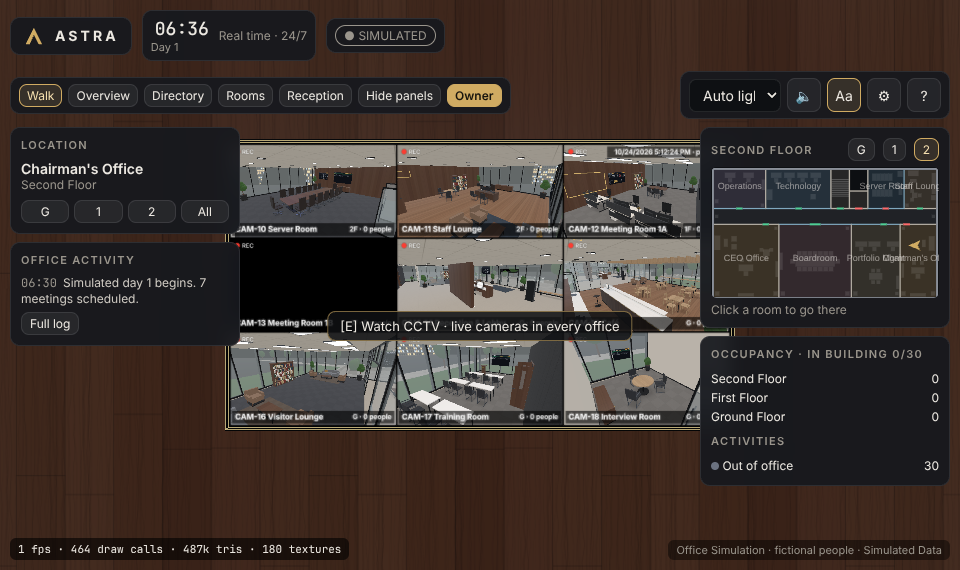
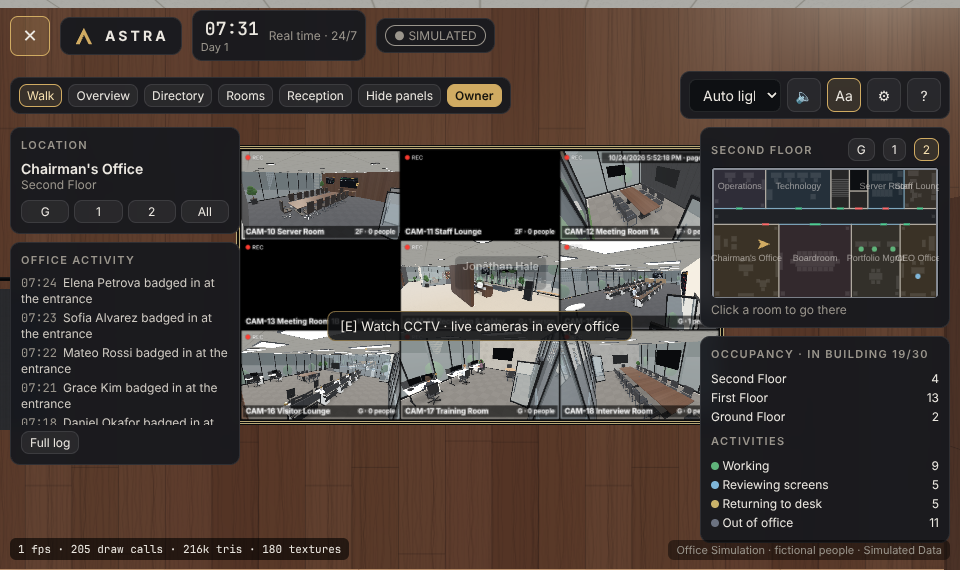
Swap offices: chairman takes the corner office, CEO moves east
The chairman's office (ASTRA CHAIRMAN plate, PC, CCTV wall) is now the large
corner office; the CEO's desk, guest chairs, sofa and company screen move to
the office east of Portfolio Management. The owner can call meetings in their
own office and Talk sends people there by default.

Employee health check (36 h of the real office) found and fixed:
- research-direction meetings fired per trader (19 a day), pulling desk heads
  into meetings 32-37% of the time; now one per desk per day, grouping that
  desk's traders, with the PM redirecting anyone else directly
- Operations picked reconciliation or P&L report by clock parity, so the P&L
  report could never run; now they alternate
- desk names in meeting titles use the live book names
CCTV full view labels only the people in the room on camera.

Claude-Session: https://claude.ai/code/session_01BpAXXQrUMy59n4uomeZRsj

diff --git a/astra-hq/src/sim/work.ts b/astra-hq/src/sim/work.ts
@@ -88,6 +88,8 @@ export class WorkEngine {
   regimes = new Map<string, { trend: 'up' | 'down' | 'range'; rsi: number; vol: number; chg: number; t: number }>();
   focus = new Map<string, { family?: Family; interval?: Interval; until: number }>();
   failStreak = new Map<string, number>();
+  /** When each PM last held a research-direction meeting for their desk (at most one a day per desk). */
+  private deskMeetingAt = new Map<string, number>();
   kill: { on: boolean; at: number; reason: string } = { on: false, at: 0, reason: '' };
   data: DataPort | null = null;
   private seq = 1;
@@ -318,8 +320,12 @@ export class WorkEngine {
         const iv = INTERVALS[(Math.floor(t / 20) + e.index) % INTERVALS.length];
         return mk('data-refresh', { interval: iv }, `Refresh ${iv} candles for all ${INSTRUMENTS.length} markets`);
       }
-      case 'ops':
-        return (t + e.index) % 2 ? mk('reconciliation', {}, 'Reconcile strategy books with the firm ledger') : mk('pnl-report', {}, 'P&L report by book and strategy');
+      case 'ops': {
+        // alternate: after a reconciliation comes a P&L report and the other way round (tasks are newest first)
+        const last = this.tasks.find((x) => x.owner === id && (x.kind === 'reconciliation' || x.kind === 'pnl-report'));
+        const recon = last ? last.kind === 'pnl-report' : e.index % 2 === 0;
+        return recon ? mk('reconciliation', {}, 'Reconcile strategy books with the firm ledger') : mk('pnl-report', {}, 'P&L report by book and strategy');
+      }
       case 'ceo':
         return mk('review-reports', {}, 'Read reports from the heads of department and decide');
       case 'receptionist':
@@ -654,11 +660,56 @@ export class WorkEngine {
   }
 
   // ------------------------------------------------------------------ problem-solving meetings
+  /**
+   * A trader with 8 failed tests in a row: their desk meets about research direction, at most once a day per desk.
+   * Traders who hit the streak while a desk meeting is booked join it; after the day's meeting, their PM redirects
+   * them directly using the same firm-wide evidence (no extra meeting).
+   */
   private researchMeeting(trader: string) {
-    const pm = this.managerOf(trader);
-    const people = [trader, pm, this.head('researcher')?.cfg.id, this.sim.employees.find((e) => /head trader/i.test(e.cfg.title))?.cfg.id].filter((x, i, a): x is string => !!x && a.indexOf(x) === i);
+    const pm = this.managerOf(trader) ?? '';
     this.failStreak.set(trader, 0);
-    this.meeting('research-direction', `Research direction: ${this.name(trader)} has 8 failed tests in a row`, people, 'f-m1a', { trader });
+    const now = this.now();
+    for (const [evId, d] of this.decisions) {
+      if (d.kind !== 'research-direction' || d.data.pm !== pm) continue;
+      const ev = this.sim.events.find((x) => x.id === evId);
+      if (ev && ev.status === 'scheduled') {
+        const traders = String(d.data.traders).split(',');
+        if (!traders.includes(trader)) { traders.push(trader); d.data.traders = traders.join(','); }
+        if (!ev.attendeeIds.includes(trader)) ev.attendeeIds.push(trader);
+        ev.title = `Research direction: ${traders.length} ${this.deskName(pm)} traders with 8+ failed tests in a row`;
+        ev.agenda = [ev.title];
+        return;
+      }
+    }
+    if (now - (this.deskMeetingAt.get(pm) ?? -1e9) < 1440) {
+      const f = this.bestFocus();
+      this.focus.set(trader, { ...f, until: now + 1440 });
+      const text = `${this.name(pm)} redirected ${this.name(trader)} to ${f.family ? FAMILY_LABEL[f.family] : 'other families'}${f.interval ? ` at ${f.interval}` : ''} after 8 failed tests (desk already met today)`;
+      this.sim.addLog(text, 'office');
+      const e = this.sim.byId.get(trader);
+      if (e) this.sim.pushHistory(e, text);
+      return;
+    }
+    this.deskMeetingAt.set(pm, now);
+    const people = [trader, pm, this.head('researcher')?.cfg.id, this.sim.employees.find((e) => /head trader/i.test(e.cfg.title))?.cfg.id].filter((x, i, a): x is string => !!x && a.indexOf(x) === i);
+    this.meeting('research-direction', `Research direction: ${this.name(trader)} has 8 failed tests in a row`, people, 'f-m1a', { trader, traders: trader, pm });
+  }
+
+  private deskName(pm: string): string {
+    const book = [...this.sim.finance.pmByBook.entries()].find(([, id]) => id === pm)?.[0];
+    return (book && BOOK_INDEX.get(book as never)?.short) ?? 'desk';
+  }
+
+  /** The family and interval with the best out-of-sample record across the whole firm so far. */
+  private bestFocus(): { family?: Family; interval?: Interval } {
+    // score = pass rate first, then average out-of-sample Sharpe (a family that never passes is not "best")
+    const stats = new Map<string, { n: number; s: number; p: number }>();
+    for (const r of this.tested.values()) {
+      for (const k of [`f:${r.family}`, `i:${r.interval}`]) { const x = stats.get(k) ?? { n: 0, s: 0, p: 0 }; x.n++; x.s += r.sharpe; x.p += r.pass ? 1 : 0; stats.set(k, x); }
+    }
+    const score = (x: { n: number; s: number; p: number }) => x.p / x.n * 10 + x.s / x.n;
+    const best = (prefix: string) => [...stats.entries()].filter(([k]) => k.startsWith(prefix)).sort((a, b) => score(b[1]) - score(a[1]))[0]?.[0].slice(2);
+    return { family: best('f:') as Family | undefined, interval: best('i:') as Interval | undefined };
   }
 
   private meeting(kind: PendingDecision['kind'], title: string, people: string[], room: string, data: Record<string, string | number>) {
@@ -687,19 +738,11 @@ export class WorkEngine {
     this.decisions.delete(ev.id);
     let decision = '';
     if (d.kind === 'research-direction') {
-      const trader = String(d.data.trader);
       // pick the family and interval that have done best out of sample across the whole firm so far
-      // score = pass rate first, then average out-of-sample Sharpe (a family that never passes is not "best")
-      const stats = new Map<string, { n: number; s: number; p: number }>();
-      for (const r of this.tested.values()) {
-        for (const k of [`f:${r.family}`, `i:${r.interval}`]) { const x = stats.get(k) ?? { n: 0, s: 0, p: 0 }; x.n++; x.s += r.sharpe; x.p += r.pass ? 1 : 0; stats.set(k, x); }
-      }
-      const score = (x: { n: number; s: number; p: number }) => x.p / x.n * 10 + x.s / x.n;
-      const best = (prefix: string) => [...stats.entries()].filter(([k]) => k.startsWith(prefix)).sort((a, b) => score(b[1]) - score(a[1]))[0]?.[0].slice(2);
-      const family = best('f:') as Family | undefined;
-      const interval = best('i:') as Interval | undefined;
-      this.focus.set(trader, { family, interval, until: this.now() + 1440 });
-      decision = `Decision: ${this.name(trader)} focuses on ${family ? FAMILY_LABEL[family] : 'other families'}${interval ? ` at ${interval}` : ''} for the next day (best firm-wide out-of-sample results so far).`;
+      const traders = String(d.data.traders ?? d.data.trader).split(',');
+      const { family, interval } = this.bestFocus();
+      for (const trader of traders) this.focus.set(trader, { family, interval, until: this.now() + 1440 });
+      decision = `Decision: ${traders.map((x) => this.name(x)).join(', ')} focus${traders.length === 1 ? 'es' : ''} on ${family ? FAMILY_LABEL[family] : 'other families'}${interval ? ` at ${interval}` : ''} for the next day (best firm-wide out-of-sample results so far).`;
     } else if (d.kind === 'loss-limit') {
       decision = 'Decision: strategies stay paused until tomorrow; each PM re-reviews their book and halves allocations on restart.';
       for (const s of this.strats) if (s.status === 'paused') s.alloc *= 0.5;
@@ -722,7 +765,7 @@ export class WorkEngine {
 
   // ------------------------------------------------------------------ persistence (the office keeps its memory across reloads)
   serialize() {
-    return { v: 1, seq: this.seq, tasks: this.tasks.slice(0, 200), strats: this.strats, reports: this.reports.slice(0, 150), tested: [...this.tested.entries()], regimes: [...this.regimes.entries()], focus: [...this.focus.entries()], kill: this.kill, objectives: this.objectives, planDay: this.planDay };
+    return { v: 1, seq: this.seq, tasks: this.tasks.slice(0, 200), strats: this.strats, reports: this.reports.slice(0, 150), tested: [...this.tested.entries()], regimes: [...this.regimes.entries()], focus: [...this.focus.entries()], kill: this.kill, objectives: this.objectives, planDay: this.planDay, deskMeetingAt: [...this.deskMeetingAt.entries()] };
   }
 
   restore(d: ReturnType<WorkEngine['serialize']>) {
@@ -738,6 +781,7 @@ export class WorkEngine {
     this.kill = d.kill ?? this.kill;
     this.objectives = d.objectives ?? [];
     this.planDay = d.planDay ?? -1;
+    this.deskMeetingAt = new Map(d.deskMeetingAt ?? []);
   }
 }
 

diff --git a/astra-hq/src/world/furniture.ts b/astra-hq/src/world/furniture.ts
@@ -520,24 +520,27 @@ standSpot('slounge-q1', 2, 32.6, 1.7, -HALF);
 standSpot('slounge-q2', 2, 32.6, 2.8, -HALF);
 addFurn('plant', 2, 29.45, 5.5);
 
-// CEO office ---------------------------------------------------------------------
-workstation({ id: 'ws-ceo', kind: 'ceo', label: 'CEO Desk', floor: 2, x: 5.0, z: 15.0, rot: 0, w: 2.2, d: 1.0, monitors: 2, deskType: 'deskExec', chair: 'chairExec', seatOffset: 0.88 });
+// Chairman's office (Uday Fulkatwar) -------------------------------------------
+addFurn('deskExec', 2, 5.0, 15.0, 0, 2.2, 1.0, 0.76);
+chairSeat('chair-exec-s1', 'chairExec', 2, 5.0, 15.9, PI, 'meeting');
 addFurn('credenza', 2, 5.0, 19.1, PI, 2.4, 0.5, 0.7);
-chairSeat('ceo-guest-s1', 'chairMeeting', 2, 4.4, 13.85, 0, 'meeting');
-chairSeat('ceo-guest-s2', 'chairMeeting', 2, 5.6, 13.85, 0, 'meeting');
+// Chairman's PC: two screens on the desk facing the chair; using it opens the console with access to the whole office
+panel({ id: 'p-chair-pc-1', kind: 'chairmanPc', floor: 2, x: 4.66, y: 1.1, z: 14.66, heading: 0.12, w: 0.64, h: 0.38, label: "Chairman's PC (screen 1)", roomId: 's-chair' });
+panel({ id: 'p-chair-pc-2', kind: 'chairmanPc', floor: 2, x: 5.34, y: 1.1, z: 14.66, heading: -0.12, w: 0.64, h: 0.38, label: "Chairman's PC (screen 2)", roomId: 's-chair' });
+chairSeat('chair-guest-s1', 'chairMeeting', 2, 4.4, 13.85, 0, 'meeting');
+chairSeat('chair-guest-s2', 'chairMeeting', 2, 5.6, 13.85, 0, 'meeting');
 addFurn('sofa', 2, 0.65, 11.2, HALF, 2.2, 0.9, 0.8);
-sofaSeat('ceo-sofa-s1', 2, 0.7, 10.6, HALF);
-sofaSeat('ceo-sofa-s2', 2, 0.7, 11.8, HALF);
+sofaSeat('chair-sofa-s1', 2, 0.7, 10.6, HALF);
+sofaSeat('chair-sofa-s2', 2, 0.7, 11.8, HALF);
 addFurn('coffeeTable', 2, 1.95, 11.2, HALF, 1.2, 0.6, 0.4);
-chairSeat('ceo-arm-s1', 'armchair', 2, 3.2, 10.6, -HALF, 'lounge');
-chairSeat('ceo-arm-s2', 'armchair', 2, 3.2, 11.8, -HALF, 'lounge');
+chairSeat('chair-arm-s1', 'armchair', 2, 3.2, 10.6, -HALF, 'lounge');
+chairSeat('chair-arm-s2', 'armchair', 2, 3.2, 11.8, -HALF, 'lounge');
 addFurn('rug', 2, 1.9, 11.2, 0, 3.0, 3.2, 0.01, { noCollide: true, variant: 1 });
-roundTable('ceo-table', 2, 8.1, 12.7, 1.0, 3, 0);
+roundTable('chair-table', 2, 7.6, 17.4, 1.0, 3, 0);
 ceilingFreeBookshelf(2, 9.68, 15.2, -HALF, 2.4);
 addFurn('plantTall', 2, 0.65, 18.9);
 addFurn('plantTall', 2, 9.5, 18.9);
 addFurn('coatStand', 2, 9.55, 9.0);
-panel({ id: 'p-ceo-tv', kind: 'ceoTv', floor: 2, x: 0.3, y: 1.75, z: 15.0, heading: HALF, w: 1.6, h: 0.9, label: 'Company overview screen', roomId: 's-ceo' });
 
 // Boardroom -----------------------------------------------------------------------
 meetingTable('s-board', 2, 15.5, 14.0, 6.0, 1.6, true, 7, true, 'chairExec');
@@ -559,24 +562,21 @@ addFurn('plantTall', 2, 21.6, 18.9);
 addFurn('plant', 2, 27.9, 18.9);
 panel({ id: 'p-pm-wall', kind: 'pmWall', floor: 2, x: 28.3, y: 1.75, z: 14.2, heading: -HALF, w: 2.0, h: 1.12, label: 'Portfolio summary display', roomId: 's-pm' });
 
-// Chairman's office (Uday Fulkatwar) ---------------------------------------------
-addFurn('deskExec', 2, 31.1, 15.4, 0, 2.0, 0.95, 0.76);
-chairSeat('chair-exec-s1', 'chairExec', 2, 31.1, 16.3, PI, 'meeting');
+// CEO office --------------------------------------------------------------------
+workstation({ id: 'ws-ceo', kind: 'ceo', label: 'CEO Desk', floor: 2, x: 31.1, z: 15.4, rot: 0, w: 2.0, d: 0.95, monitors: 2, deskType: 'deskExec', chair: 'chairExec', seatOffset: 0.88 });
 addFurn('credenza', 2, 31.1, 19.1, PI, 2.4, 0.5, 0.7);
-// Chairman's PC: two screens on the desk facing the chair; using it opens the console with access to the whole office
-panel({ id: 'p-chair-pc-1', kind: 'chairmanPc', floor: 2, x: 30.76, y: 1.1, z: 15.06, heading: 0.12, w: 0.64, h: 0.38, label: "Chairman's PC (screen 1)", roomId: 's-chair' });
-panel({ id: 'p-chair-pc-2', kind: 'chairmanPc', floor: 2, x: 31.44, y: 1.1, z: 15.06, heading: -0.12, w: 0.64, h: 0.38, label: "Chairman's PC (screen 2)", roomId: 's-chair' });
-chairSeat('chair-guest-s1', 'chairMeeting', 2, 30.5, 14.25, 0, 'meeting');
-chairSeat('chair-guest-s2', 'chairMeeting', 2, 31.7, 14.25, 0, 'meeting');
+chairSeat('ceo-guest-s1', 'chairMeeting', 2, 30.5, 14.25, 0, 'meeting');
+chairSeat('ceo-guest-s2', 'chairMeeting', 2, 31.7, 14.25, 0, 'meeting');
 addFurn('sofa', 2, 33.2, 11.3, -HALF, 2.2, 0.9, 0.8);
-sofaSeat('chair-sofa-s1', 2, 33.15, 10.7, -HALF);
-sofaSeat('chair-sofa-s2', 2, 33.15, 11.9, -HALF);
+sofaSeat('ceo-sofa-s1', 2, 33.15, 10.7, -HALF);
+sofaSeat('ceo-sofa-s2', 2, 33.15, 11.9, -HALF);
 addFurn('coffeeTable', 2, 32.0, 11.3, HALF, 1.1, 0.55, 0.4);
 addFurn('rug', 2, 32.1, 11.3, 0, 2.6, 3.0, 0.01, { noCollide: true, variant: 1 });
 ceilingFreeBookshelf(2, 28.8, 15.4, HALF, 2.2);
 addFurn('plantTall', 2, 28.9, 18.9);
 addFurn('plantTall', 2, 33.4, 18.9);
 addFurn('coatStand', 2, 28.9, 9.0);
+panel({ id: 'p-ceo-tv', kind: 'ceoTv', floor: 2, x: 28.5, y: 1.75, z: 11.6, heading: HALF, w: 1.6, h: 0.9, label: 'Company overview screen', roomId: 's-ceo' });
 
 // =====================================================================
 // CORRIDORS & CORE (every floor)
@@ -595,9 +595,9 @@ for (const [id, floor, x, y, z, heading, w, label] of [
   ['p-world-risk', 1, 17.78, 1.85, 3.0, -HALF, 2.2, 'World markets screen (risk)'],
   ['p-world-conf', 1, 28.7, 1.95, 0.28, 0, 2.6, 'World markets screen (conference room)'],
   ['p-world-board', 2, 10.12, 1.95, 17.4, HALF, 2.0, 'World markets screen (boardroom)'],
-  ['p-world-ceo', 2, 3.2, 1.9, 8.53, 0, 2.4, 'World markets screen (CEO office)'],
+  ['p-world-chair', 2, 3.2, 1.9, 8.53, 0, 2.4, "World markets screen (chairman's office)"],
   ['p-world-pm', 2, 21.12, 1.9, 14.0, HALF, 2.4, 'World markets screen (portfolio management)'],
-  ['p-world-chair', 2, 33.72, 1.9, 15.4, -HALF, 2.0, "World markets screen (chairman's office)"],
+  ['p-world-ceo', 2, 33.72, 1.9, 15.4, -HALF, 2.0, 'World markets screen (CEO office)'],
   ['p-world-lounge', 2, 33.72, 1.85, 2.6, -HALF, 1.8, 'World markets screen (staff lounge)'],
 ] as const) panel({ id, kind: 'worldMarkets', floor, x, y, z, heading, w, h: w * 0.5625, label });
 

diff --git a/astra-hq/src/world/building.ts b/astra-hq/src/world/building.ts
@@ -112,10 +112,10 @@ export const ROOMS: RoomDef[] = [
   { id: 's-server', floor: 2, name: 'Server Room', kind: 'server', rect: R(23.5, 0.15, 29.0, 6.0), finish: 'raised', entry: { x: 26.2, z: 5.1 } },
   { id: 's-lounge', floor: 2, name: 'Staff Lounge', kind: 'staff-lounge', rect: R(29.0, 0.15, 33.85, 6.0), finish: 'wood', entry: { x: 31.4, z: 4.9 } },
   { id: 's-corridor', floor: 2, name: 'Second Floor Corridor', kind: 'corridor', rect: R(0.15, 6.0, 33.85, 8.4), finish: 'carpetDark', entry: { x: 19.3, z: 7.2 }, hidden: true },
-  { id: 's-ceo', floor: 2, name: 'Founder / CEO Office', kind: 'office', rect: R(0.15, 8.4, 10.0, 19.45), finish: 'wood', entry: { x: 8.0, z: 10.0 } },
+  { id: 's-chair', floor: 2, name: "Chairman's Office", kind: 'office', rect: R(0.15, 8.4, 10.0, 19.45), finish: 'wood', entry: { x: 8.0, z: 10.0 } },
   { id: 's-board', floor: 2, name: 'Boardroom', kind: 'boardroom', rect: R(10.0, 8.4, 21.0, 19.45), finish: 'carpetDark', entry: { x: 15.5, z: 9.8 }, bookable: true },
   { id: 's-pm', floor: 2, name: 'Portfolio Management', kind: 'pm', rect: R(21.0, 8.4, 28.4, 19.45), finish: 'carpet', entry: { x: 25.9, z: 9.8 } },
-  { id: 's-chair', floor: 2, name: "Chairman's Office", kind: 'office', rect: R(28.4, 8.4, 33.85, 19.45), finish: 'wood', entry: { x: 29.4, z: 10.0 } },
+  { id: 's-ceo', floor: 2, name: 'CEO Office', kind: 'office', rect: R(28.4, 8.4, 33.85, 19.45), finish: 'wood', entry: { x: 29.4, z: 10.0 } },
 ];
 
 // Core spaces exist on every floor.
@@ -239,10 +239,10 @@ door({ id: 's-d-ops', floor: 2, axis: 'x', at: 6.0, center: 4.0, width: 0.9, gla
 door({ id: 's-d-tech', floor: 2, axis: 'x', at: 6.0, center: 13.0, width: 0.9, glass: true, label: 'Technology', swing: -1 });
 door({ id: 's-d-server', floor: 2, axis: 'x', at: 6.0, center: 26.2, width: 0.9, glass: true, label: 'Server Room', swing: -1, defaultOpen: false });
 door({ id: 's-d-lounge', floor: 2, axis: 'x', at: 6.0, center: 31.4, width: 0.9, label: 'Staff Lounge', swing: -1 });
-door({ id: 's-d-ceo', floor: 2, axis: 'x', at: 8.4, center: 8.0, width: 0.9, label: 'CEO Office', swing: 1 });
+door({ id: 's-d-chair', floor: 2, axis: 'x', at: 8.4, center: 8.0, width: 1.0, label: "Chairman's Office", swing: 1, defaultOpen: false, plate: { title: 'Astra Chairman', sub: 'Uday Fulkatwar' } });
 door({ id: 's-d-board', floor: 2, axis: 'x', at: 8.4, center: 15.5, width: 1.6, kind: 'double', glass: true, label: 'Boardroom', swing: 1 });
 door({ id: 's-d-pm', floor: 2, axis: 'x', at: 8.4, center: 25.9, width: 0.9, glass: true, label: 'Portfolio Management', swing: 1 });
-door({ id: 's-d-chair', floor: 2, axis: 'x', at: 8.4, center: 29.4, width: 1.0, label: "Chairman's Office", swing: 1, defaultOpen: false, plate: { title: 'Astra Chairman', sub: 'Uday Fulkatwar' } });
+door({ id: 's-d-ceo', floor: 2, axis: 'x', at: 8.4, center: 29.4, width: 0.9, label: 'CEO Office', swing: 1 });
 
 // ---------------------------------------------------------------- lookups
 export function roomAt(floor: number, x: number, z: number): RoomDef | undefined {

diff --git a/astra-hq/src/scene/Runtime.tsx b/astra-hq/src/scene/Runtime.tsx
@@ -8,6 +8,8 @@ import { useUI } from '../store/ui';
 import { ACTIVITY_COLOR, ACTIVITY_LABEL } from '../sim/simulation';
 import { playSound, setAmbienceLevel } from '../audio/sound';
 import { vis } from './visibility';
+import { roomAt } from '../world/building';
+import { CCTV_CAMERAS } from '../world/cctv';
 
 export function SimDriver() {
   const last = useRef(-1);
@@ -113,6 +115,8 @@ export function Labels({ container }: { container: HTMLDivElement | null }) {
     const show = ui.settings.labels && ui.mode !== 'intro';
     const radius = ui.mode === 'walk' || ui.mode === 'seated' ? 16 : ui.mode === 'overview' ? 26 : 30;
     const selected = ui.panel?.kind === 'employee' ? ui.panel.id : ui.followId;
+    // a CCTV camera only labels the people in the room it watches (labels would otherwise show through walls)
+    const cctvRoom = ui.panel?.kind === 'cctv' && !ui.panelMin ? CCTV_CAMERAS[ui.panel.cam]?.roomId : undefined;
     sim.employees.forEach((e, i) => {
       const el = els.current[i];
       if (!el) return;
@@ -122,7 +126,7 @@ export function Labels({ container }: { container: HTMLDivElement | null }) {
       const d = camera.position.distanceTo(v);
       v.project(camera);
       const onFocus = vis.interior || ui.mode !== 'overview' ? f === vis.focusFloor : ui.overviewFloor < 3 && f === ui.overviewFloor;
-      const visible = show && e.phase !== 'away' && vis.floors[f] && (d < radius || e.cfg.id === selected) && v.z < 1 && v.z > -1 && Math.abs(v.x) < 1.1 && Math.abs(v.y) < 1.1 && (onFocus || e.cfg.id === selected);
+      const visible = show && e.phase !== 'away' && vis.floors[f] && (d < radius || e.cfg.id === selected) && v.z < 1 && v.z > -1 && Math.abs(v.x) < 1.1 && Math.abs(v.y) < 1.1 && (onFocus || e.cfg.id === selected) && (!cctvRoom || roomAt(e.floor, e.x, e.z)?.id === cctvRoom);
       if (!visible) { if (el.style.display !== 'none') el.style.display = 'none'; return; }
       el.style.display = '';
       const x = (v.x * 0.5 + 0.5) * size.width;

diff --git a/astra-hq/src/scene/Cctv.tsx b/astra-hq/src/scene/Cctv.tsx
@@ -12,7 +12,8 @@ import { player } from '../store/player';
 import { useUI } from '../store/ui';
 import { vis } from './visibility';
 
-export const CCTV_TV = { x: 28.49, y: 1.62, z: 11.6, w: 2.7, h: 1.52, floor: 2 };
+/** On the chairman's office east wall (to the boardroom), facing the sofa. */
+export const CCTV_TV = { x: 9.91, y: 1.62, z: 11.4, w: 2.7, h: 1.52, floor: 2, heading: -Math.PI / 2, roomId: 's-chair' };
 const COLS = 3;
 const TILE_W = 448, TILE_H = 252;
 const PAGE_SECONDS = 15;
@@ -47,7 +48,7 @@ export function CctvWall() {
   const frame = useMemo(() => {
     const g = new THREE.Group();
     g.position.set(CCTV_TV.x, CCTV_TV.floor * FLOOR_H + CCTV_TV.y, CCTV_TV.z);
-    g.rotation.y = Math.PI / 2;
+    g.rotation.y = CCTV_TV.heading;
     const bezel = new THREE.Mesh(new THREE.BoxGeometry(CCTV_TV.w + 0.06, CCTV_TV.h + 0.06, 0.04), new THREE.MeshStandardMaterial({ color: '#111214', roughness: 0.4, metalness: 0.5 }));
     bezel.position.z = -0.012;
     const screen = new THREE.Mesh(new THREE.PlaneGeometry(CCTV_TV.w, CCTV_TV.h), new THREE.MeshBasicMaterial({ map: rt.texture, toneMapped: false }));
@@ -69,7 +70,7 @@ export function CctvWall() {
   useFrame(() => {
     const ui = useUI.getState();
     frame.visible = vis.floors[CCTV_TV.floor];
-    const near = (ui.mode === 'walk' || ui.mode === 'seated') && player.floor === CCTV_TV.floor && Math.abs(player.x - 31.1) < 4.5 && player.z > 7.5;
+    const near = (ui.mode === 'walk' || ui.mode === 'seated') && player.floor === CCTV_TV.floor && roomAt(player.floor, player.x, player.z)?.id === CCTV_TV.roomId;
     const s = st.current;
     const page = cctvPage();
     if (!near || ui.panel?.kind === 'cctv') { vis.extraFloor = -1; s.floor = -1; return; }

diff --git a/astra-hq/src/ui/Owner.tsx b/astra-hq/src/ui/Owner.tsx
@@ -18,7 +18,7 @@ import { playSound } from '../audio/sound';
 import { goToEmployee, goToRoom } from './actions';
 import { BackToPc, MinimizeButton } from './Panels';
 
-export const MEETING_ROOMS = ['f-conf', 's-board', 'g-training', 'f-m1a', 'f-m1b', 'g-interview', 's-ceo', 'g-lobby'] as const;
+export const MEETING_ROOMS = ['f-conf', 's-board', 'g-training', 'f-m1a', 'f-m1b', 'g-interview', 's-chair', 's-ceo', 'g-lobby'] as const;
 
 function capacity(roomId: string) {
   const seats = SEATS.filter((s) => s.roomId === roomId && (s.kind === 'meeting' || s.kind === 'lounge')).length;
@@ -102,7 +102,7 @@ export function OwnerPanel({ tab: initial, pc }: { tab?: OwnerTab; pc?: boolean 
   const [room, setRoom] = useState<string>('f-conf');
   const [minutes, setMinutes] = useState(30);
   const [topic, setTopic] = useState('');
-  const [sendRoom, setSendRoom] = useState<string>('s-ceo');
+  const [sendRoom, setSendRoom] = useState<string>('s-chair');
   const [note, setNote] = useState<string | null>(null);
   const meetings = sim.ownerMeetings();
   const withOrders = sim.employees.filter((e) => e.order);
@@ -589,7 +589,7 @@ export function TalkPanel({ id }: { id: string }) {
   const e = sim.byId.get(id);
   const [text, setText] = useState('');
   const [task, setTask] = useState('');
-  const [room, setRoom] = useState<string>('s-ceo');
+  const [room, setRoom] = useState<string>('s-chair');
   const [, force] = useState(0);
   const [pending, setPending] = useState<string | null>(null);
   const [aiNote, setAiNote] = useState<string | null>(null);

diff --git a/astra-hq/tests/world.test.ts b/astra-hq/tests/world.test.ts
@@ -14,7 +14,7 @@ describe('building layout', () => {
     for (const n of [
       '0:Reception & Lobby', '0:Visitor Lounge', '0:Café', '0:Interview Room', '0:Training Room', '0:Restroom A', '0:Restroom B', '0:Utility & Storage',
       '1:Trading Floor', '1:Research Area', '1:Risk Management', '1:Meeting Room 1A', '1:Meeting Room 1B', '1:Conference Room',
-      '2:Founder / CEO Office', '2:Portfolio Management', '2:Technology', '2:Operations', '2:Boardroom', '2:Staff Lounge', '2:Server Room',
+      '2:CEO Office', "2:Chairman's Office", '2:Portfolio Management', '2:Technology', '2:Operations', '2:Boardroom', '2:Staff Lounge', '2:Server Room',
     ]) expect(names).toContain(n);
   });
 

diff --git a/astra-hq/src/ai/brain.ts b/astra-hq/src/ai/brain.ts
@@ -61,7 +61,7 @@ function tools(sim: Simulation, empId: string, ownerSpot: () => { floor: number;
     },
     {
       name: 'go_to_room',
-      description: 'Walk to a room in the building and wait there for the owner (e.g. "Conference Room", "Boardroom", "Founder / CEO Office", "Café"). Returns the room name.',
+      description: 'Walk to a room in the building and wait there for the owner (e.g. "Conference Room", "Boardroom", "CEO Office", "Café"). Returns the room name.',
       inputSchema: { type: 'object', properties: { room: { type: 'string' } }, required: ['room'] },
       execute: (i) => {
         const id = findRoom(String(i.room ?? ''));

diff --git a/astra-hq/src/scene/Interaction.tsx b/astra-hq/src/scene/Interaction.tsx
@@ -53,8 +53,8 @@ function chairmanPcGeometry() {
     b.box('blackMetal', p.x - Math.sin(p.heading) * 0.08, base + 0.13, p.z - Math.cos(p.heading) * 0.08, 0.05, 0.26, 0.03, p.heading);
     b.box('blackMetal', p.x - Math.sin(p.heading) * 0.06, base + 0.008, p.z - Math.cos(p.heading) * 0.06, 0.24, 0.016, 0.18, p.heading);
   }
-  b.box('plasticDark', 31.1, base + 0.012, 15.62, 0.44, 0.02, 0.14);
-  b.box('plasticDark', 31.5, base + 0.014, 15.64, 0.06, 0.025, 0.1);
+  b.box('plasticDark', 5.0, base + 0.012, 15.22, 0.44, 0.02, 0.14);
+  b.box('plasticDark', 5.4, base + 0.014, 15.24, 0.06, 0.025, 0.1);
   return b.build();
 }
 

diff --git a/astra-hq/tests/owner.test.ts b/astra-hq/tests/owner.test.ts
@@ -107,7 +107,7 @@ describe('owner features', () => {
     const sim = office();
     const ceo = sim.employees.find((e) => e.cfg.roleType === 'ceo')!;
     sim.advance(0.5);
-    sim.player = { x: 8.0, y: 8, z: 10.2, floor: 2 }; // just inside the CEO office door
+    sim.player = { x: 29.4, y: 8, z: 10.2, floor: 2 }; // just inside the CEO office door
     sim.advance(1.5);
     expect(ceo.greet?.stage).toBe('hold');
     expect(ceo.phase).toBe('standing');

diff --git a/astra-hq/README.md b/astra-hq/README.md
@@ -62,7 +62,7 @@ Movement input is ignored while a panel is open or a text field has focus.
 |---|---|
 | Ground | Entrance plaza & canopy signage, Reception & Lobby (reception desk with 2 monitors, logo wall, directory kiosk), Visitor Lounge, Café (counter, coffee machine, display fridge, 4 tables, window bar, armchairs), Interview Room, Training Room, Restrooms A & B, Utility & Storage |
 | First | Trading Floor (10 desks × 3 monitors, market display wall), Research Area (5 desks × 2 monitors, collaboration table, 2 flex desks), Risk Management (3 desks), Meeting Rooms 1A & 1B, Conference Room (18 seats) |
-| Second | Founder / CEO Office, Chairman's Office (Uday Fulkatwar, brass name plate on the door; the desk PC opens a console with access to every screen, display, person and owner control; a CCTV wall TV shows 18 live room cameras, and opening it gives each camera full screen), Portfolio Management (3 desks), Technology (4 desks), Operations (2 desks), Boardroom (16 seats), Staff Lounge, glass-enclosed Server Room |
+| Second | Chairman's Office (the corner office: Uday Fulkatwar, brass ASTRA CHAIRMAN plate on the door; the desk PC opens a console with access to every screen, display, person and owner control; a CCTV wall TV shows 18 live room cameras, and opening it gives each camera full screen), CEO Office (east of Portfolio Management), Portfolio Management (3 desks), Technology (4 desks), Operations (2 desks), Boardroom (16 seats), Staff Lounge, glass-enclosed Server Room |
 
 **Simulation** (`src/sim/`): one clock (1 real second = 20 simulated seconds at 1×; 2× and 5× available, or a
 real-time clock option where one simulated minute takes one real minute) drives schedules, events, the market,
@@ -121,7 +121,7 @@ simulated work (no AI service).
 - **Talk** (press `E` on anyone, or *Talk* in a profile): ask for a status update, P&L, risk, problems or their next
   meeting, or type anything. **Assign a task**: they work on it at their desk and report back when done.
 - **Messages**: every acknowledgement and reply lands in Owner → Messages and pops up as a notification.
-- **CEO courtesy**: when you walk into the Founder / CEO Office while the CEO is at the desk, the CEO stands up to
+- **CEO courtesy**: when you walk into the CEO Office while the CEO is at the desk, the CEO stands up to
   greet you and sits down again once you take a seat (or leave).
 - **Door signs**: every room door has a name plate with the room and the department working there (it follows the
   departments you set in the editor).

diff --git a/astra-hq/VERIFICATION.md b/astra-hq/VERIFICATION.md
@@ -77,7 +77,7 @@ real touch hardware. No frame-rate claim is made for real hardware.
 
 All 83 checks passed, including:
 
-- Chairman's Office (second floor, east of Portfolio Management): the door carries the brass plate "ASTRA CHAIRMAN" (large) over "Uday Fulkatwar" (small) on the leaf itself, with no sign above that door; all 22 rooms reachable.
+- Chairman's Office (second floor corner office; the CEO moved to the office east of Portfolio Management): the door carries the brass plate "ASTRA CHAIRMAN" (large) over "Uday Fulkatwar" (small) on the leaf itself, with no sign above that door; all 22 rooms reachable.
 - Chairman's PC on the cabin desk: using it opens the console listing every person with their screens, every room and wall display, rooms and records, plus all owner tabs; a staff screen opened from it has a "‹ Chairman's PC" button back.
 - Clean screen (the default): only the ASTRA mark, the time and one ☰ button; the button (or C) brings back every control and ✕ hides them again, remembered per viewer.
 - CCTV wall TV in the cabin: 3 x 3 grid of live room cameras (two pages, 18 rooms, restrooms never covered), name, floor and head count per tile; using it switches the main view to that camera full screen with prev/next, auto-cycle, a camera list and who is in the room; closing returns you to where you stood. `CCTV_ALL=1` captures every camera (all 18 checked unobstructed).
